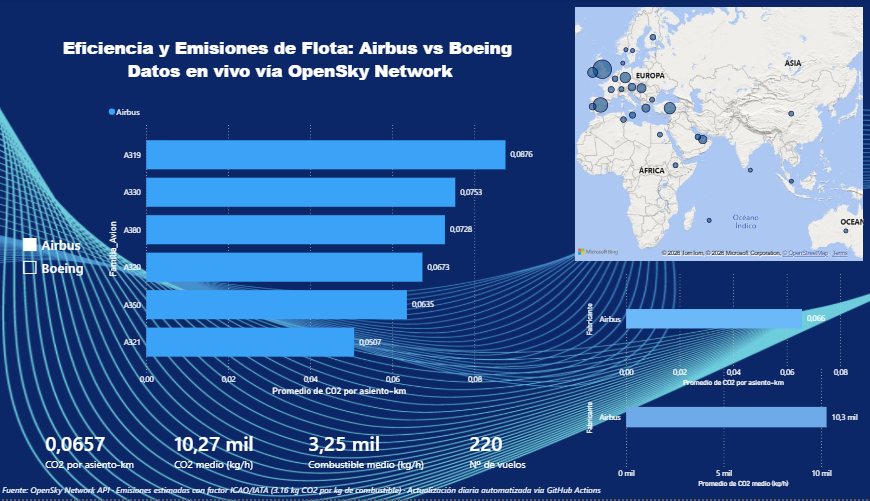
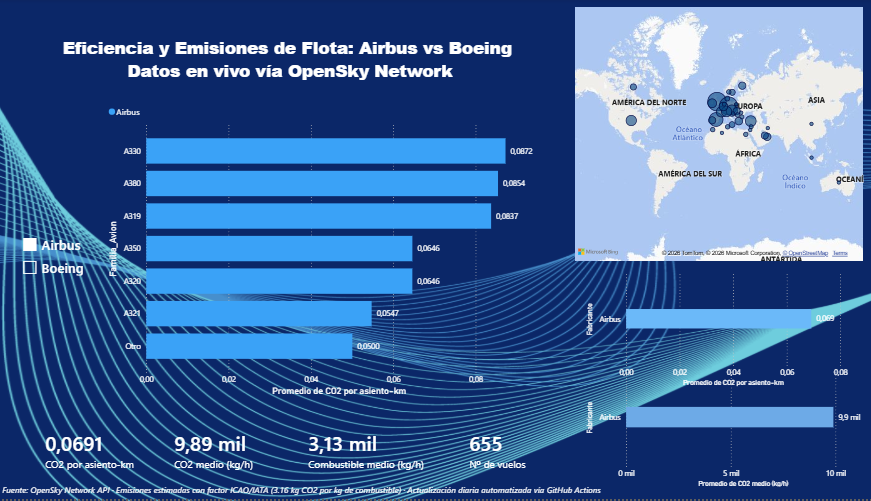
Actualizar capturas y metodologia con datos post-fix

diff --git a/docs/metodologia_co2.md b/docs/metodologia_co2.md
@@ -91,3 +91,7 @@ Se detectó que, en un pequeño porcentaje de registros (~0,3%), el fabricante y
 - Emisiones de un vuelo completo (incluye solo fase de crucero, no despegue/aterrizaje).
 - Eficiencia ajustada por ocupación real de pasajeros.
 - Una conclusión estadísticamente robusta sobre qué fabricante es "mejor", dado el sesgo de composición de flota.
+
+## 8. Cobertura del cruce con la base de aeronaves
+
+En una ejecución representativa, aproximadamente el **56% de las observaciones capturadas** no encuentran coincidencia en la base de datos de referencia de aeronaves (`icao24` desconocido). Esto es esperable dado que la base de OpenSky es comunitaria y no exhaustiva, y una parte significativa del tráfico capturado corresponde a aviación privada, militar u otras aeronaves fuera del alcance de este análisis (comercial Airbus/Boeing). Este dato se calcula e imprime automáticamente en cada ejecución del pipeline (`src/transform_silver.py`), permitiendo auditar la cobertura real de cada corrida.
